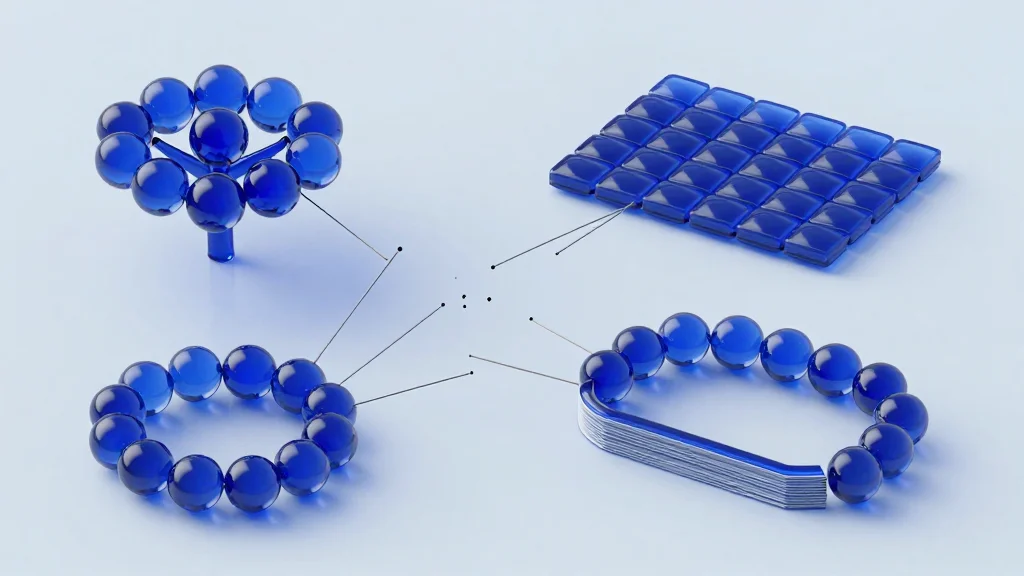
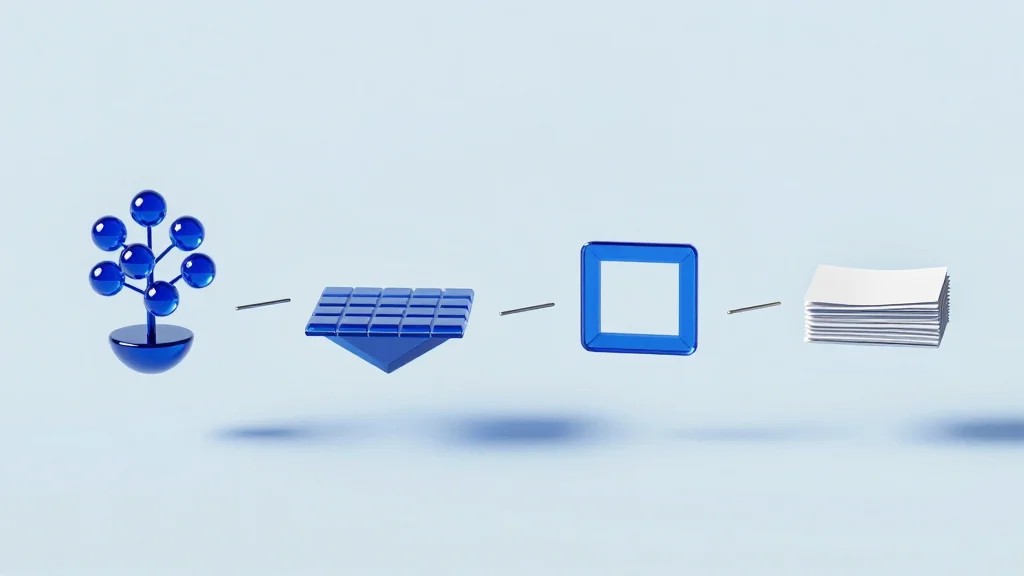
update drawing

diff --git a/readme.ru.md b/readme.ru.md
@@ -20,7 +20,7 @@ Tenniarb — настольное приложение для моделей, к
 
 Картинка верна в одном месте, числа — в другом, и никто не знает, какая копия актуальна.
 
-![Четыре отдельных кластера синих шаров, тонкие спицы тянутся навстречу друг другу и обрываются](docs/Images/readme/problem.webp)
+![Дерево, сетка, рамка и стопка страниц парят отдельно друг от друга, между ними обрываются спицы](docs/Images/readme/problem.webp)
 
 ## Что делает Tenniarb
 

diff --git a/readme.md b/readme.md
@@ -20,7 +20,7 @@ A single model rarely stays in one tool:
 
 The picture is right in one place, the numbers in another, and nobody knows which copy is the current one.
 
-![Four separate clusters of blue spheres; thin rods reach toward each other between them and stop short](docs/Images/readme/problem.webp)
+![A glass tree, a grid of tiles, a frame and a stack of pages floating apart, with broken rods between them](docs/Images/readme/problem.webp)
 
 ## What Tenniarb does
 
